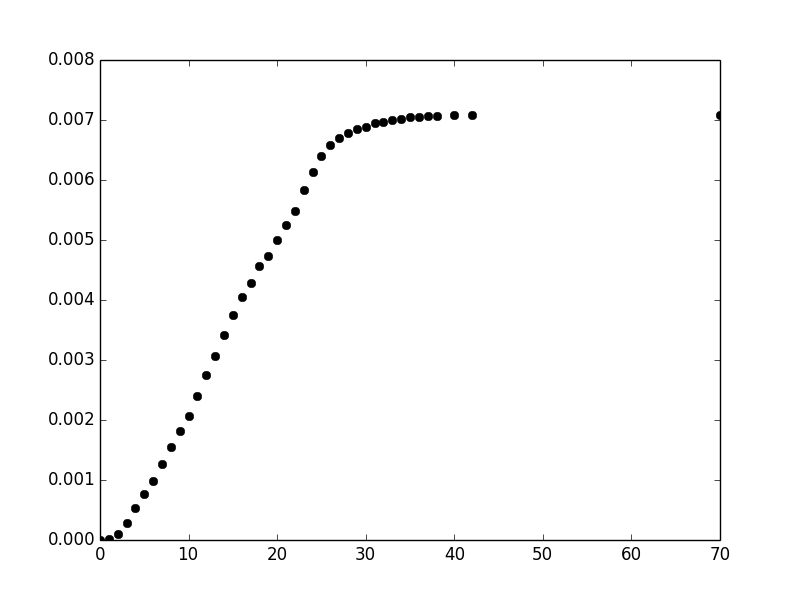
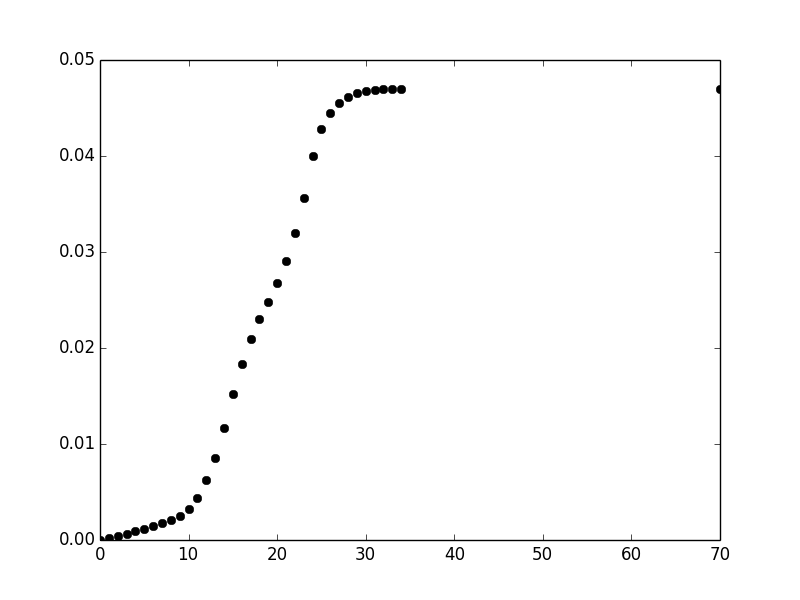
updating thrid post

diff --git a/third.md b/third.md
@@ -1,0 +1,125 @@
+Title: Kaggle's Asus Competition - got into top 25%
+Date: 2014-04-11 10:20
+Category: Python
+Tags: python, machinelearning, kaggle
+Slug: kaggle-asus-failure-survival-analysis
+Author: Alex Parij
+Summary: Kaggle's PAKDD 2014 competition to predict future malfunctional components of ASUS notebooks from historical data
+
+I recently finished participating in Kaggle's ASUS competition which was about predicting future malfunctional 
+components of ASUS notebooks from historical data. My final placement in this competition was 140/614 that is the top 25%, for which I'm very happy.
+Considering the fact that it was more about time-series forecasting and less to do with core machine learning algorithms, I've done well. 
+
+Basically I was given two data sources, one is sales and another repairs.
+Sales data was from January/2005 to February/2008 :
+
+module_category | component_category | year/month | number_sale
+----------------|--------------------|------------|-------------
+M4              |       P10          | 2007/1     |   0
+M4              |       P27          | 2005/5     |  1042
+M1              |       P22          | 2005/9     |  1677
+
+Repairs data was from February/2005 to December/2009, for example:
+
+module_category|component_category|year/month(sale)|year/month(repair)|number_repair
+---------------|------------------|----------------|------------------|------------
+M6|P16|2007/9|2009/4|1
+M2|P30|2007/9|2009/8|1
+M1|P12|2006/10|2008/2|2
+M1|P30|2006/5|2007/7|1
+M3|P06|2007/8|2007/12|1
+M7|P19|2006/7|2007/6|1
+
+And I was trying to predict the monthly repair amount for each module-component from January/2010 to July/2011 (for 19 months) .
+The prediction was evaluated using mean absolute error (MAE) which is the difference bertween the number of repairs I predicted 
+vs real repairs data ASUS had, devided by total of prediction rows.
+
+Just to explore the data using Python's Pandas DataFrame, grouping by module,component and date,.
+
+     repair_data.groupby(['module_category','component_category','year/month(repair)'],as_index=False).agg({'number_repair':np.sum})
+
+Just one component's graph of the total repairs 2005 to 2009 time series will look like this :
+
+![Repairs graph](images/repairs.png)
+
+We can see that the number of repairs grows as more components are sold and also as the time passes, but falls off around two years mark 
+as the first sold models reach that age. Not sure why the drop but my assumption was that the warranty expired.
+ The number of repairs in the end of 2009 is zero or almost zero for most components and we need to predict what happens in the next 19 months.
+The easiest would be just take the last points and fit some linear regression or moving average,
+ that would bring us above the baseline(which is predict that we have only zero repairs) but it would not be the best model. 
+
+My most most successful model was built using a simple survival analysis
+ (using Python's [Lifelines](https://github.com/CamDavidsonPilon/lifelines) package) blended with linear regression for 
+the tail of the 19 months to forecast
+
+I took the time from sale of component to repair as time to death/event and the rest of the components were right censored(never had death event).
+Didn't matter when the component was sold because it was all relative. I got let's say couple of thousands deaths with 1 to ~ 45 months from been
+ sold to the repaired/death event and ~500k of right censored items and then estimated the hazard rates using [Nelson-Aalen estimator](http://en.wikipedia.org/wiki/Nelson%E2%80%93Aalen_estimator) from
+Lifelines library.
+data would look like this, an array of deaths :
+
+      data_events[0:100]
+      array([ 70.,   1.,   1.,   1.,   1.,   1.,   1.,   1.,   2.,   2.,   2.,
+         2.,   2.,   2.,   2.,   2.,   2.,   2.,   2.,   2.,   2.,   2.,
+         2.,   2.,   2.,   2.,   2.,   2.,   2.,   2.,   3.,   3.,   3.,
+         3.,   3.,   3.,   3.,   3.,   3.,   3.,   3.,   3.,   3.,   3.,
+         3.,   3.,   3.,   3.,   3.,   3.,   3.,   3.,   3.,   3.,   3.,
+         3.,   3.,   3.,   3.,   3.,   3.,   3.,   3.,   3.,   3.,   3.,
+         3.,   3.,   3.,   3.,   3.,  12.,  12.,  12.,  12.,  12.,  12.,
+        12.,  12.,  12.,  12.,  12.,  12.,  12.,  12.,  12.,  12.,  12.,
+        12.,  12.,  12.,  12.,  12.,  12.,  12.,  12.,  12.,  12.,  12.,
+        12.])
+
+the first cell for example has a value of 70 it is a component that never was repaired but right censored, it can be any arbitrary high number. other cells with values like 1 or 12 or 3
+is after how many months the component was repaired. If it was sold in September/2008 and repaired in September/2009 it means 12 months later death event occured. So I would  have arrays of size around 500k mostly with a value of 70 (component that never repaired).
+Fitting the data:
+
+   naf = NelsonAalenFitter()
+   naf.fit(data_events, event_observed=C )
+
+C is the index of right censored components in the array (the ones with 70)
+	    
+	  
+ What I get is the cumulative hazard rate, which is an integration of survival function
+
+      naf.cumulative_hazard_
+			
+	    timeline   NA-estimate          
+	    0            0.000000
+	    1            0.000071
+	    2            0.000339
+	    3            0.000785
+	    4            0.001369
+	    5            0.001962
+	    ...
+	    ...
+
+
+![Hazard graph](images/hazard_1.png)
+
+What is important in this graph is the rate of change, in the beginning the slope is quite high that is basically gives high hazard rate at any moment(more repairs) and then after two years it would
+stabilize and have almost a zero slope which is equivalent to no or very little repairs/death events.
+let's say 10000 components were sold on Nov/2009 I need to know how many of them will be repaired in Feb/2010 which is 3 months after the sale. From the cumulative hazard  I can see that
+at 3 months the cumulative hazard is 0.000785 and at 2 months  0.000339 , the slope will be 0.000785-0.000339=.000446 . Taking the population multiplied by instantenious hazard 
+10000*0.000446 = 4.46 . On Feb/2010 4 components will be returned for repairs.
+Based on the data, usually from 0 to 45 months it gave a nice prediction but for components that were sold earlier and I had to extrapolate how many will be repaired after 4-5 years I used a modified linear regression based only on the last couple of points and I would slowly decay the hazard value from this regression.    
+I would also manually add extra weight for summer months, because it looked like in summer months the components failed more.
+
+![Repairs graph](images/repairs_2.png)
+
+The red dots are the forecasted repairs.
+
+The source for the Python implementation is on Github [Code](https://github.com/aparij/kaggle_asus) 
+
+I also tried:
+
+Aalen’s Additive model from survival analysis, which is a regression model with multiple covariabts. It was too slow and a bit worse results, 
+maybe I chose bad covariants(sale seasons, months...).
+I read some participants managed to rank top spots using Cox model which is another regression model from survival analysis.
+
+I also did VAR and ARMA from time series analysis in python's statsmodels but it worked badly or I just didn't understand it properly
+
+
+
+Big thanks to Cameronon Davidson-Pilon for writing the excellent Lifelines package for Python.
+

diff --git a/second.md b/second.md
@@ -1,0 +1,35 @@
+Title: Kaggle's Facebook competition
+Date: 2013-12-21 10:20
+Category: Python
+Tags: python, numpy, gensim, machinelearning, kaggle
+Slug: kaggle-facebook-competition-keyword-extraction
+Author: Alex Parij
+Summary: Kaggle's Facebook competition
+
+
+Kaggle's FacebookIII keyword extraction competition is over.
+It was about predicting tags to StackExchange questions.
+Check it out at [Kaggle](http://www.kaggle.com/c/facebook-recruiting-iii-keyword-extraction).
+
+I've entered at a very late stage of the competition and didn't have time to properly experiment. 
+My final standing was quite low 316/380, but I just had 3 weeks comparing to 4 months of the total competition's length, so I'm OK with that.
+It was also my first experience with Gensim python library (after reading "Building Machine Learning Systems with Python" by Rciher,Coelho). 
+
+I've tried to model the question's topic using LDA [Wikipedia](http://en.wikipedia.org/wiki/Latent_Dirichlet_allocation). For preprocessing I used NLTK with stemming, stop words and punctuation marks were removed. 
+Removing less frequent words (e.g. encountered only once). Tried to remove code snippets.
+Then I would find the most similar question based on the topics generated by LDA algo and take the tags from the training question to the test question and drop less frequent tags
+
+#So what could have I done better?
+Preprocessing should be done only once, while I did every time I was building a dictionary or corpora. It would have probably sped 
+it up by at least x2. 
+More automatic parallezation(although I used MLK by Contunium Analytics to get some free optimization up to 4 threads without extra work on my part).
+For example I could have made some simple code to split/load large test file or it  can be done manually using Linux split on test.csv and then "cat * > out" and combining the results.
+POS(parts of speech) tagging was too slow(using NLTK) but I can see that with other speed improvements POS can be used to remove adjectives,adverbs and others, lowering the numbfer of features.
+There were too many features (1mil words) for 3mil training entries! I should have tried to remove most of them. Removing words with freq=1 was not enough.
+In the end for 3 mil training rows the similarity search was too slow and 2 mil test rows will take 48 hours to calculate.I moved to a high-end machines in an Amazon cloud. It did sped up things since it had 8 cores to work and I could just split the test file across processes.
+For some reason MKL or BLAS run only with one thread, I tried to use StarCluster ec2 image that comes with all the SciPy libs preinstalled but still it would persistenly run on one thread.
+
+Anyways , next time I should join the competition earlier.
+
+
+The source is on [Github](https://github.com/aparij/KaggleFacebookIII)

diff --git a/first.md b/first.md
@@ -1,0 +1,51 @@
+Title: Numpy substring search indexed result
+Date: 2013-05-29 10:20
+Category: Python
+Tags: python, numpy
+Slug: numpy-array-string-search
+Author: Alex Parij
+Summary: Short version for index and feeds
+
+Working on Kaggle’s Titanic competition I needed to test each Numpy array cell if the string s1 contains the second string s2 and return an indexed array with True/False values.
+Let's define an array:
+
+    In [2]: import numpy as np
+    
+    In [3]: nparr = np.array([["aaMRac","bbbb"],["ccc","ffff"],["eeee","gggggg"]]
+    
+    In [4]: nparr
+    Out[4]: 
+    array([["aaMRac", "bbbb"],
+           ["ccc", "ffff"],
+           ["eeee", "gggggg"]], 
+          dtype="|S6")
+
+and I’m looking for strings that contain ‘MR’. I should get :
+
+    [True, False],
+    [False, False],
+    [False, False]
+
+because ‘aaMRac’ is the only cell that one contains ‘MR’.
+Trying :
+
+    In [5]: "MR" in nparr
+    Out[5]: False
+
+Gives me False because it tests for a string to string equality and returns the answer for the entire array.
+
+To get the indexed answer I do
+
+    In [6]: np.array(["MR" in s for s in nparr.flat]).reshape(nparr.shape)
+    Out[6]: 
+    array([[ True, False],
+   	   [False, False],
+      	   [False, False]], dtype=bool)
+
+which flattens the array before looking for the substring using a list comprehension. It then creates the new indexed answer with the right array dimensions.
+ 
+If you want to select only one column, you do like this:
+
+    In [8]: np.array(["MR" in s for s in nparr[0:,1].flat])
+    Out[8]: array([False, False, False], dtype=bool)
+
